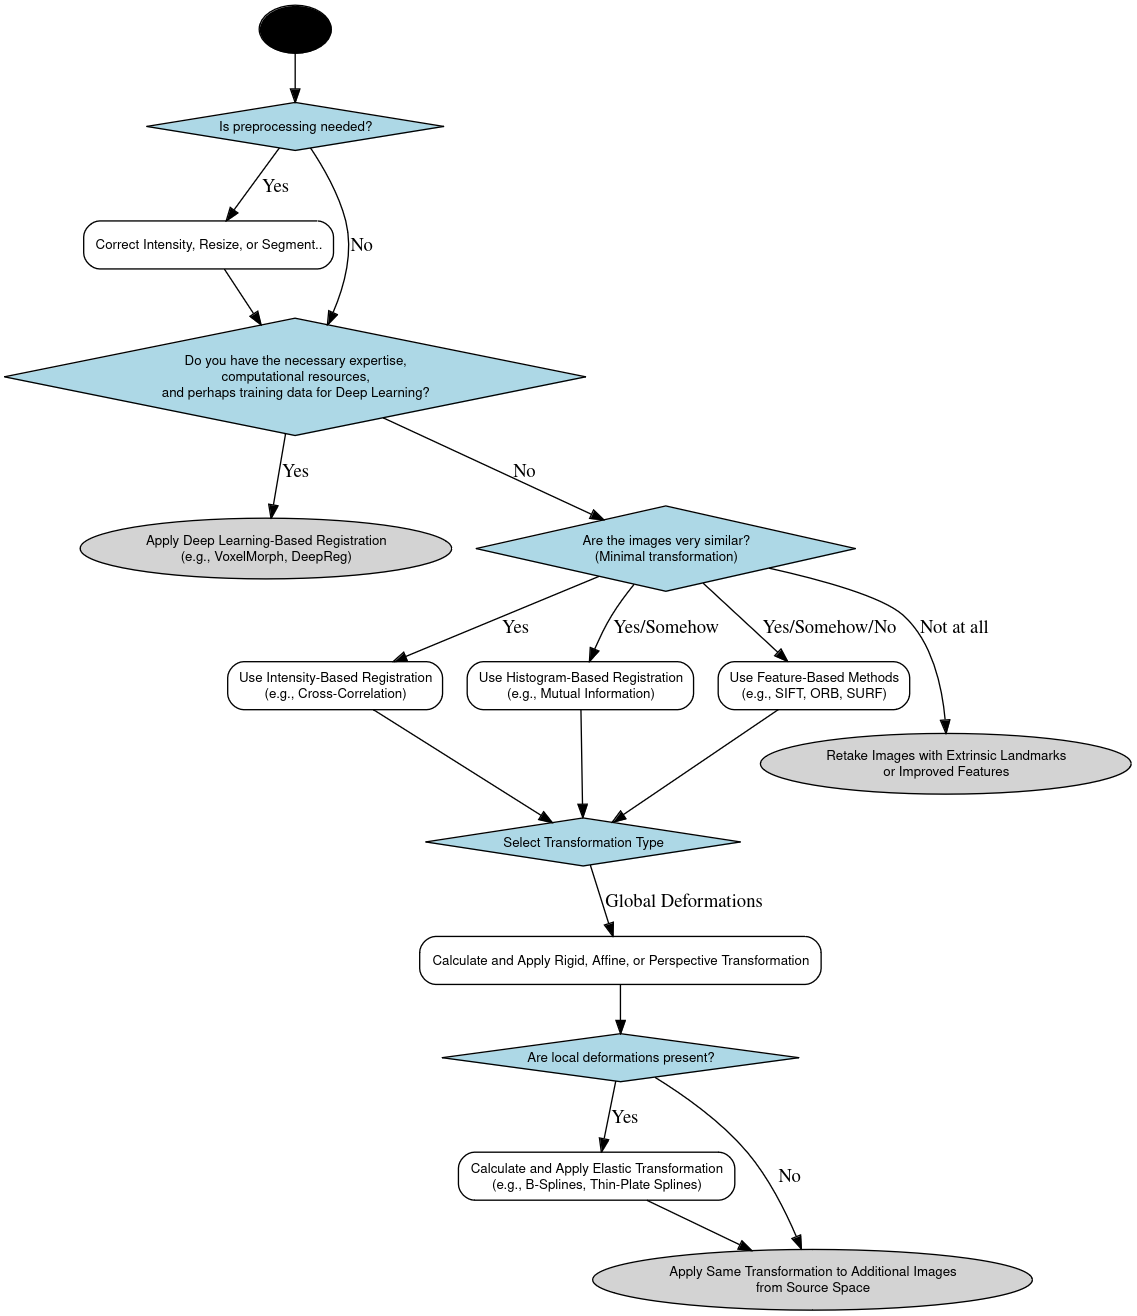
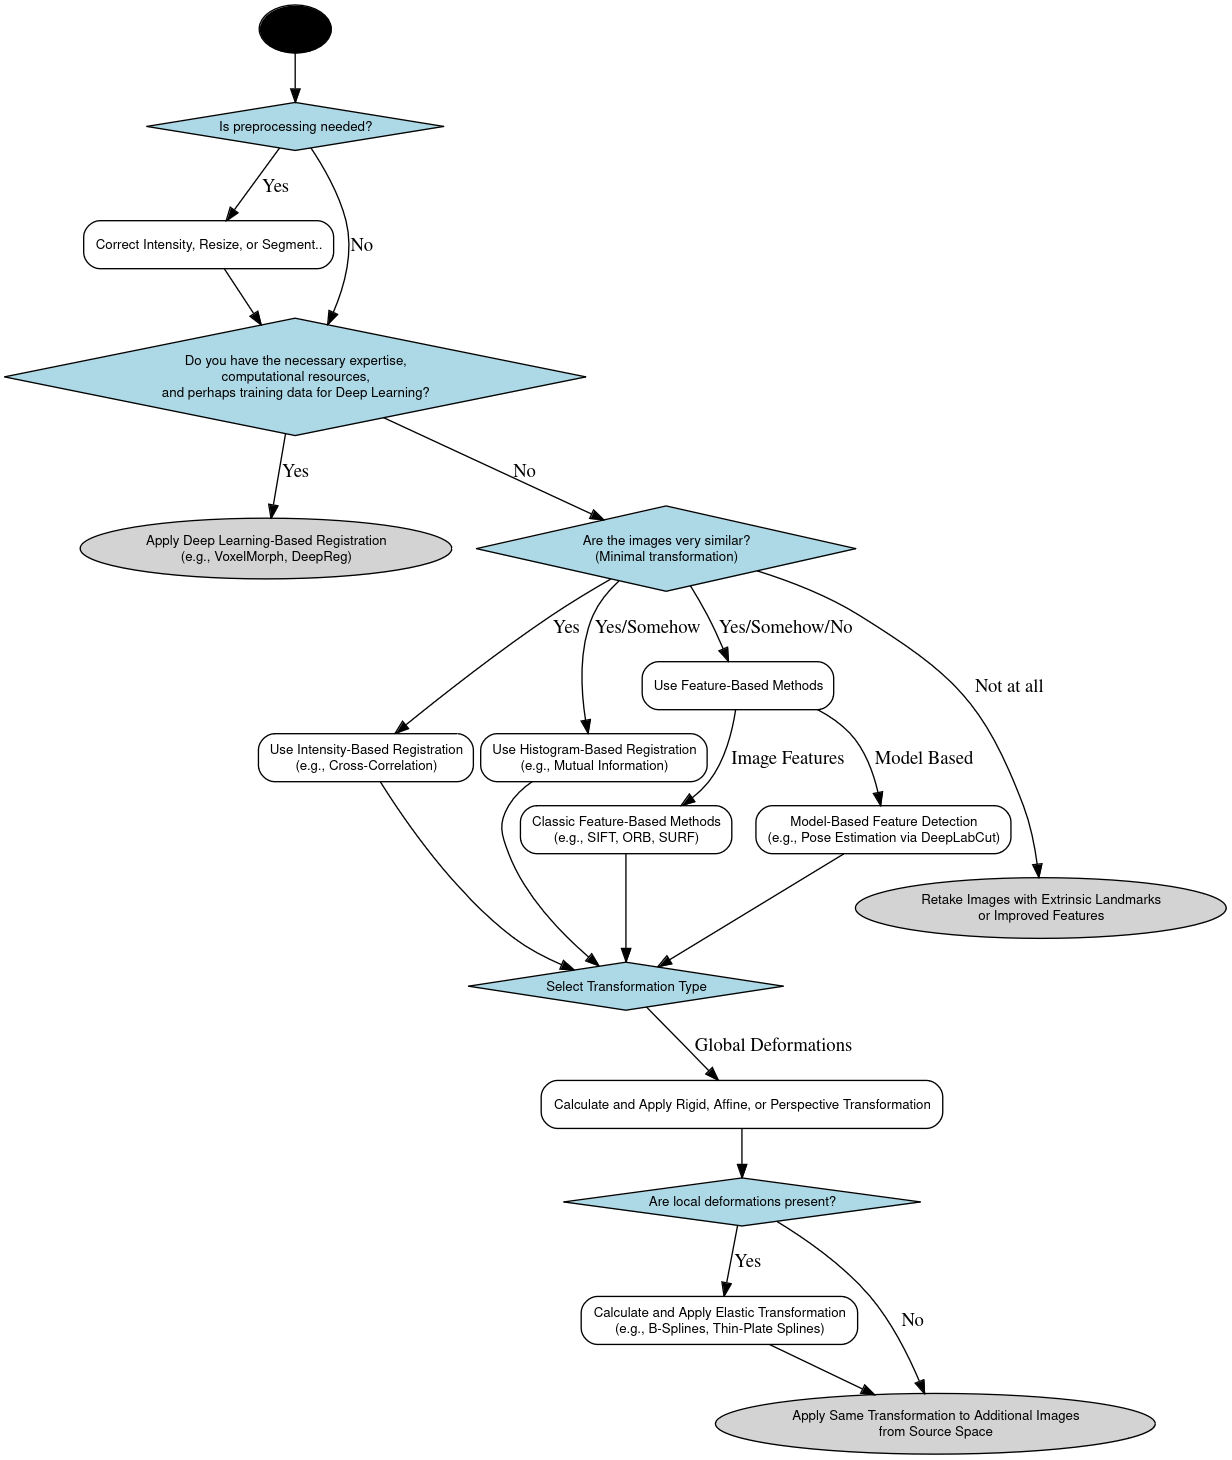
model-based registration slide

Changed region(s): [[0.0, 0.0, 1.0, 0.997]]

diff --git a/content/_index.md b/content/_index.md
@@ -122,6 +122,36 @@ SIFT can be robust and thus can be used for multimodal registration.
 
 ---
 
+## Example Pipeline: Model Based Feature-Based Registration
+
+{{< notes >}}
+In cases where many images need to be registered to the same space and pre-known features can be identified, a model-based registration pipeline can be applied.
+When the relationship of the distances between the features are pre-known, similar graph-based methods can be used.
+Deap learning based approaches can perform well on those tasks with minimal training data.
+{{</ notes >}}
+
+{{< horizontal >}}
+
+1. **Predefined Feature Detection**: e.g. pose estimation.
+   - **Manual selection of features**
+   - **Annotation of training data**
+   - **Model selection, training, and prediction**
+2. **Estimating and Applying Transformations**: All images are transformed in space to match a template image.
+    - **Transformation Estimation**
+      - Compute transformation matrix (e.g. affine) using matched keypoints
+    - **Warping**
+      - Apply transformation to align images
+
+<img src="img/wing_landmarks.png" alt="wing landmarks model"/><img src="img/wing_registration.png" alt="wing landmarks model"/>
+
+{{</ horizontal >}}
+
+{{< notes >}}
+DeepLabCut is a tracking tool that is open-source and offer great models that can be used for pose estimation and predefined feature detection.
+{{</ notes >}}
+
+---
+
 ## Image Transformation Types
 
 ![](img/transformations.png)
@@ -243,9 +273,11 @@ Overview of common tools, libraries, and plugins for image registration.
 - **Fiji/ImageJ**
   - Popular plugins: **Feature Extraction**, **Warpy** (QPath), **TrakEM2**, **Register Virtual Stack Slices**
 - **Python Libraries**
-  - **OpenCV** (C++), **SimpleITK**, **scikit-image**
+  - **OpenCV** (C++), **scikit-image**
 - **Elastix**
-  - Powerful tool for rigid and non-rigid registration
+  - ITKElastix (C++) is a powerful open-source tool (standalone or as a python package) for  intensity-based registration.
+- **DeepLabCut**
+  - Open-source deep learning based pose estimation and model based feature detection (and tracking)
 - **MATLAB**
   - Image Processing Toolbox (functions like `imregister`, `cpselect`)
 
@@ -253,13 +285,11 @@ Overview of common tools, libraries, and plugins for image registration.
 
 ## Hands-On Session
 
-
 {{< notes >}}
 We will work through practical examples using Fiji/ImageJ and Python.
 {{</ notes >}}
 
 ---
-
 
 ## Thank You!
 
